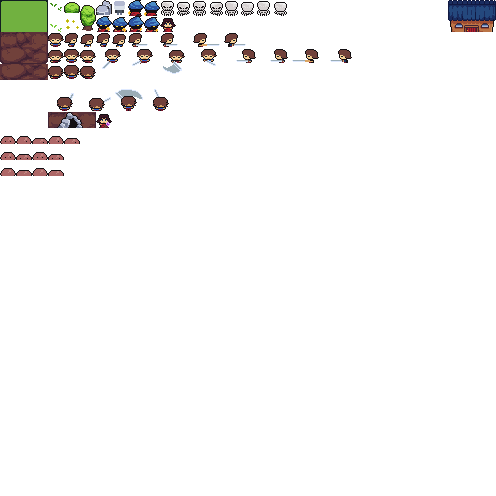
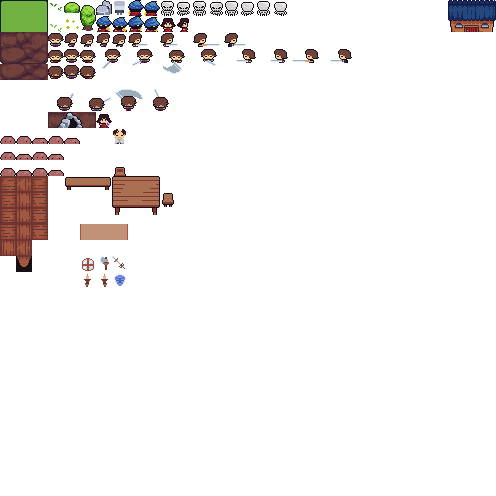
basic prologue, attack and movement done

diff --git a/src/scenes/overWorld.js b/src/scenes/overWorld.js
@@ -2,6 +2,7 @@ import fetchMapData, {
   drawTiles,
   colorizeBackground,
   drawBoundaries,
+  renderDialogue,
 } from "../utils.js";
 import generatePlayerComponent, { setPlayerStates } from "../entities/plato.js";
 import slimeComponent, { setSlimeAI } from "../entities/slime.js";
@@ -38,6 +39,12 @@ const overWorld = async (k) => {
     }
     drawTiles(k, map, layer, mapData.tilewidth, mapData.tileheight);
   }
+  map.add([
+    k.sprite("assets", { anim: "maya-right-idle" }),
+    k.pos(entities.player.pos.x - 300, entities.player.pos.y + 50),
+    k.area({ shape: new k.Rect(k.vec2(3, 3), 10, 12) }),
+    k.body({ isStatic: true }),
+  ]);
   k.camScale(3);
   k.camPos(entities.player.worldPos());
 
@@ -45,13 +52,39 @@ const overWorld = async (k) => {
     setSlimeAI(k, slime);
   }
 
-  k.onUpdate(() => {
-    if (entities.player.pos.x < 528) {
+  const wakeUpLines = [
+    "wha.. where is this place, am I in heaven?[press space to continue]",
+    "In anycase I must look around to find out myself",
+  ];
+  const convoWithMayaLines = [
+    "Lady: Hey! you what are you doing in these parts? Don't you know this area is restricted and dangerous for common folk?",
+    "Plato: I don't know myself I've never been to this place either, I just woke up here near that house.",
+    "Lady: How can that be possible? Anyways come with me thats my father's house its too dangerous to talk here.",
+    "Plato: Sure I don't perticularly want to get eaten by slime monsters.",
+  ];
+
+  renderDialogue(k, wakeUpLines, { x: 624, y: 288 }, entities.player);
+
+  const convoWithMaya = async () => {
+    renderDialogue(
+      k,
+      convoWithMayaLines,
+      {
+        x: entities.player.worldPos().x - 160,
+        y: entities.player.worldPos().y + 90,
+      },
+      entities.player
+    );
+  };
+
+  const checkPlayerPos = k.onUpdate(async () => {
+    if (entities.player.pos.x < 528 && entities.player.prevScene === "") {
       entities.player.frozen = true;
-      // for (const slime in entities.slimes) {
-      //   slime.stop();
-      // }
+      await convoWithMaya();
+      checkPlayerPos.cancel();
     }
+  });
+  k.onUpdate(() => {
     if (entities.player.pos.dist(k.camPos()) && !entities.player.frozen) {
       k.tween(
         k.camPos(),

diff --git a/src/scenes/prologue.js b/src/scenes/prologue.js
@@ -1,0 +1,41 @@
+import {
+  colorizeBackground,
+  playAnimIfNotPlaying,
+  renderDialogue,
+} from "../utils.js";
+
+export default function prologue(k) {
+  colorizeBackground(k, 20, 16, 19);
+  k.camPos(k.vec2(k.center().x + 168, k.center().y + 128));
+  k.camScale(3);
+  const scene = k.add([
+    k.sprite("cityCutscene", { anim: "city-scene-idle" }),
+    k.pos(k.center()),
+  ]);
+
+  const prologueLines = [
+    "Man I am such a failure, just got fired off of my 10th job, did'nt even make any new friends at the new office.[Press SPACE to continue]",
+    "Even my old friends contact me rarely now, where did I go wrong.",
+    "Whatever, Lets just drink the night away",
+    "Thats if I can cross this road first kinda feel dizzy maybe drank too much.",
+  ];
+  let countOfSpaceClicks = 0;
+
+  renderDialogue(k, prologueLines, {
+    x: k.center().x + 7,
+    y: k.center().y + 215,
+  });
+
+  const endingSceneSequence = k.onKeyPress("space", async () => {
+    countOfSpaceClicks++;
+    if (countOfSpaceClicks === prologueLines.length - 1) {
+      await k.wait(1);
+      playAnimIfNotPlaying(scene, "city-scene2");
+      await k.wait(0.5);
+      playAnimIfNotPlaying(scene, "city-scene-end");
+      await k.wait(1);
+      k.go("overWorld");
+      endingSceneSequence.cancel();
+    }
+  });
+}

diff --git a/src/utils.js b/src/utils.js
@@ -79,8 +79,41 @@ export const blinkEffect = async (k, entity) => {
   );
 };
 
+export const renderDialogue = (k, lines, pos, player = null) => {
+  const dialogueBox = k.add([
+    k.rect(1000, 115),
+    k.pos(140, k.center().y + 240),
+    k.fixed(),
+  ]);
+  let linesIndex = 0;
+  const { x, y } = pos;
+  const dialogueText = k.add([
+    k.text(lines[linesIndex], {
+      size: 10,
+      width: 320,
+      font: "sans-serif",
+    }),
+    k.color(20, 16, 19),
+    k.pos(x, y),
+  ]);
+  console.log(dialogueText.text);
+
+  if (player) player.frozen = true;
+  const dialogueKeyBind = k.onKeyPress("space", () => {
+    if (linesIndex === lines.length - 1) {
+      dialogueKeyBind.cancel();
+      dialogueBox.destroy();
+      dialogueText.destroy();
+      if (player) player.frozen = false;
+    } else {
+      linesIndex++;
+      dialogueText.text = lines[linesIndex];
+    }
+  });
+};
+
 export const onAttacked = async (k, attacker, entity) => {
-  if (entity.isAttacking) return;
+  if (entity.isAttacking || entity?.frozen) return;
   entity.hurt(attacker.attackPower);
   blinkEffect(k, entity);
   if (entity.hp() <= 0) {

diff --git a/src/main.js b/src/main.js
@@ -1,5 +1,6 @@
 import k from "./kaboomContext.js";
 import overWorld from "./scenes/overWorld.js";
+import prologue from "./scenes/prologue.js";
 k.loadSprite("assets", "./assets/punarjeevan.png", {
   sliceX: 31,
   sliceY: 31,
@@ -17,6 +18,18 @@ k.loadSprite("assets", "./assets/punarjeevan.png", {
     "slime-move-horizontal": { from: 249, to: 252, loop: true },
     "slime-move-down": { from: 279, to: 282, loop: true },
     "slime-move-up": { from: 310, to: 313, loop: true },
+    "maya-right-idle": 42,
+  },
+});
+
+k.loadSprite("cityCutscene", "./assets/cityScene1Anim.png", {
+  sliceX: 6,
+  sliceY: 2,
+  anims: {
+    "city-scene-idle": 0,
+    "city-scene-end": 11,
+    "city-scene1": { from: 0, to: 4 },
+    "city-scene2": { from: 6, to: 11 },
   },
 });
 
@@ -69,6 +82,7 @@ k.loadSpriteAtlas("./assets/punarjeevan.png", {
 
 const scenes = {
   overWorld,
+  prologue,
 };
 
 for (const sceneName in scenes) {

diff --git a/src/entities/plato.js b/src/entities/plato.js
@@ -17,6 +17,7 @@ const generatePlayerComponent = (k, pos) => {
       attackPower: 1,
       frozen: false,
       isSwordEquipped: false,
+      prevScene: "",
     },
     "plato",
   ];
